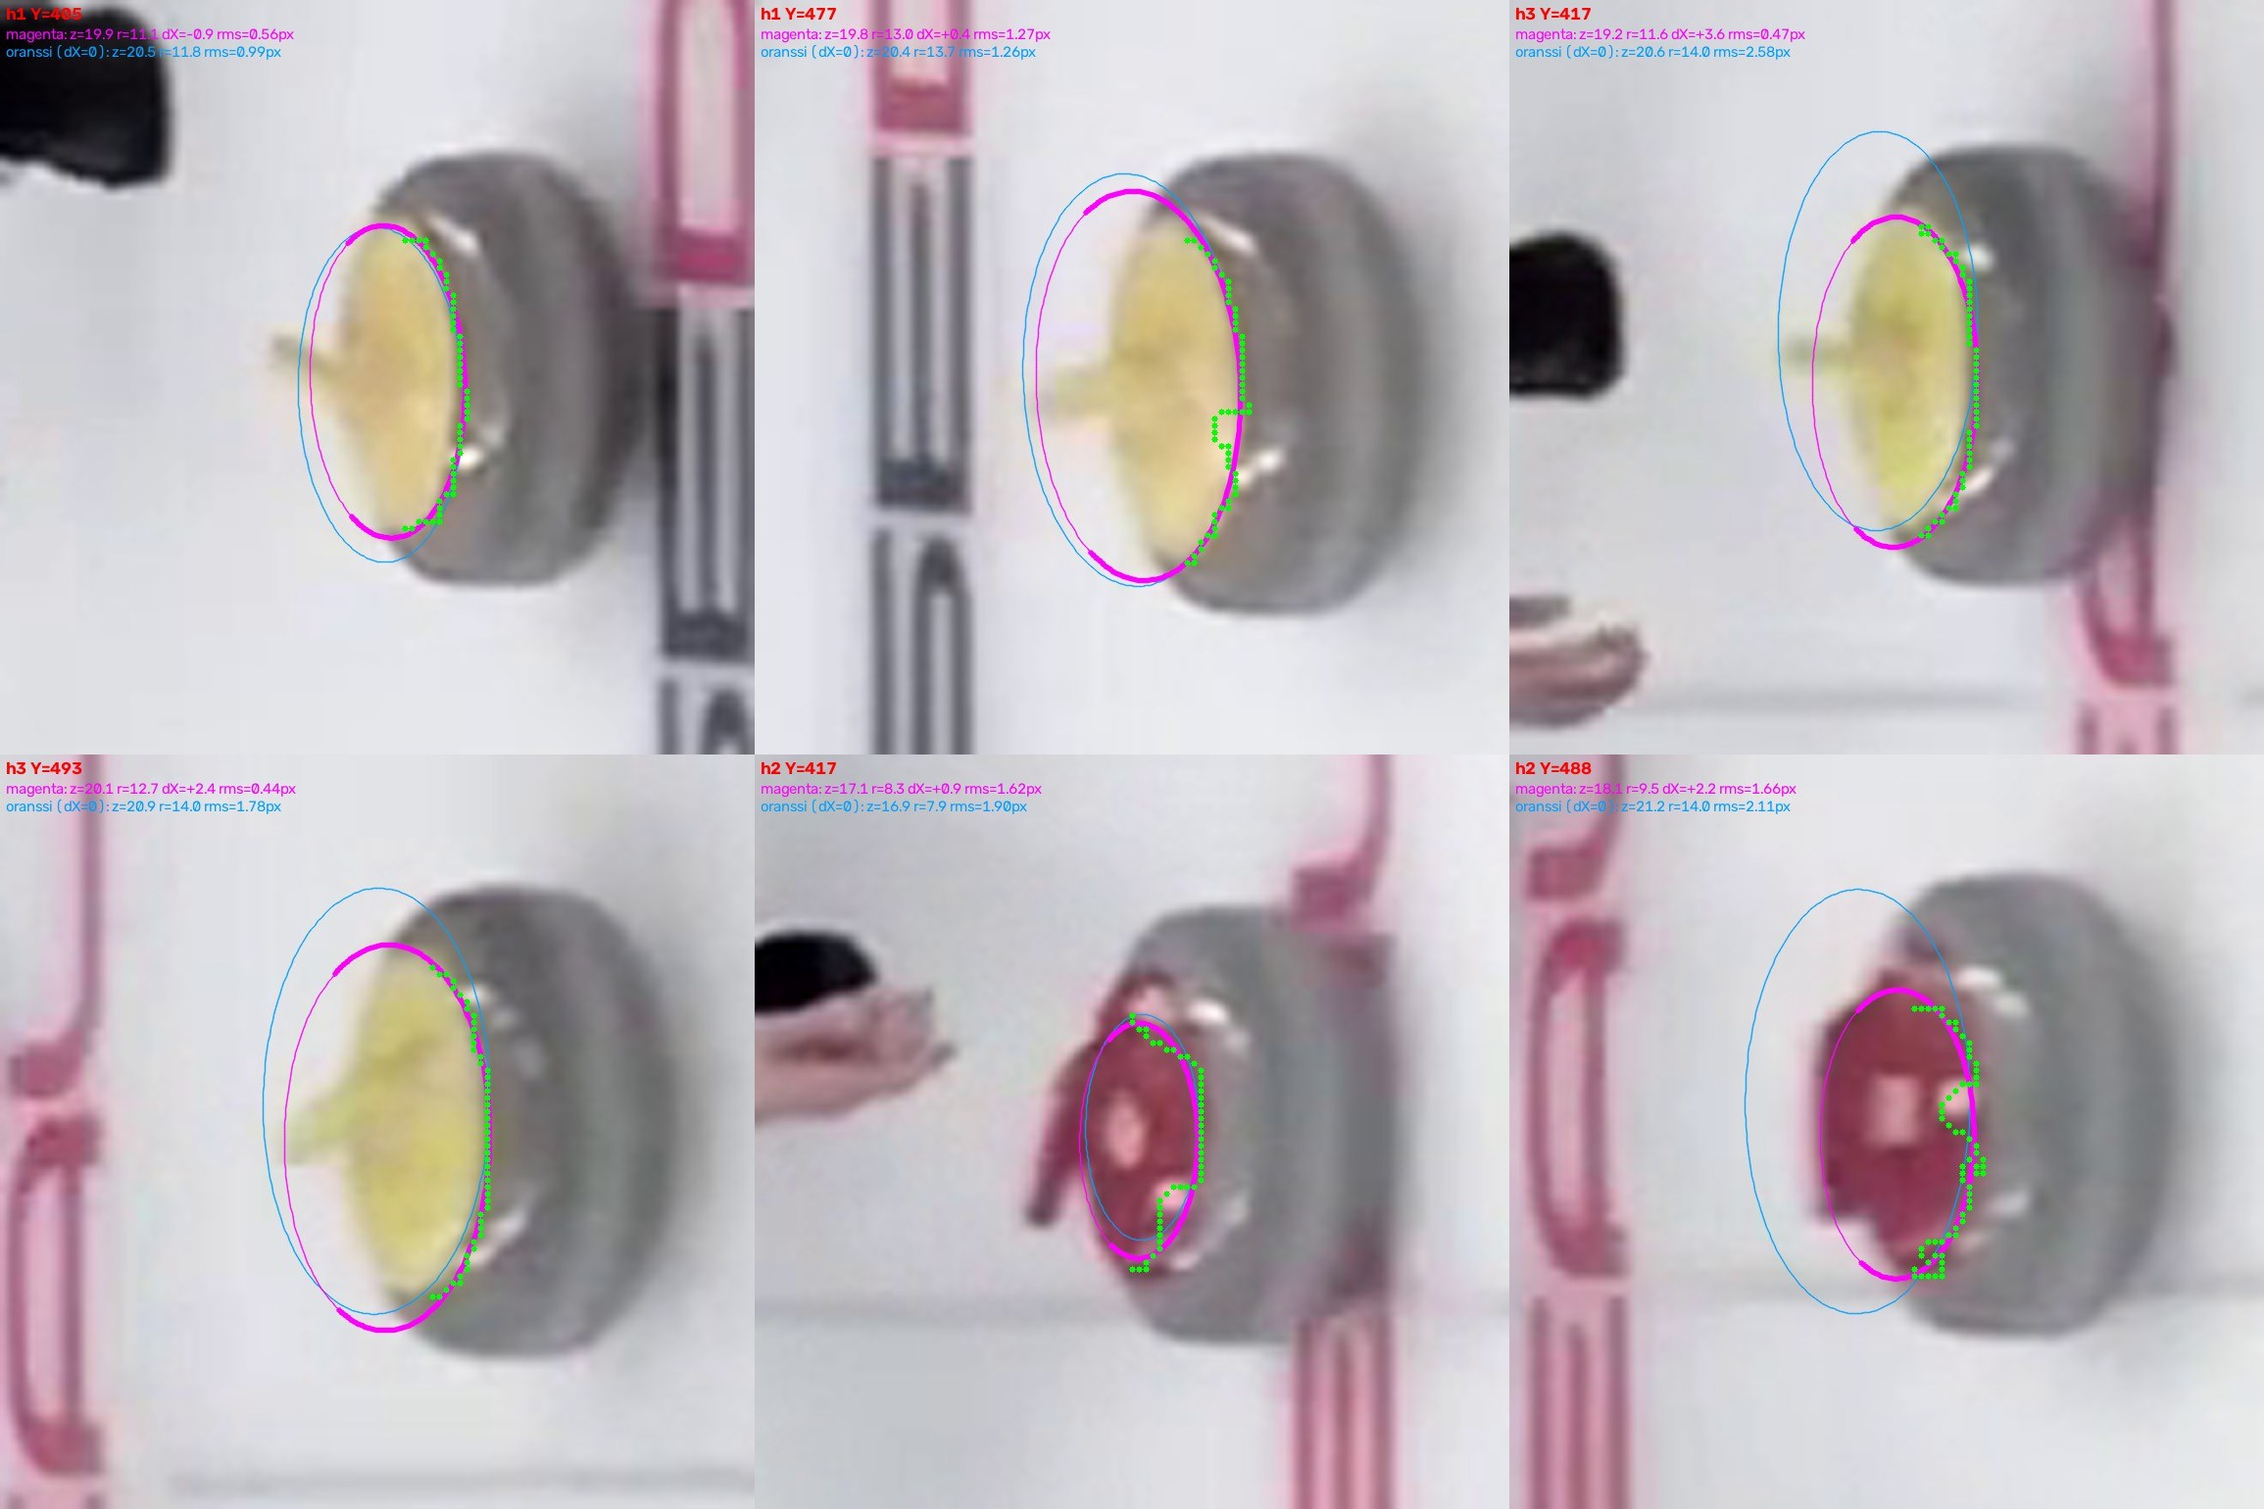
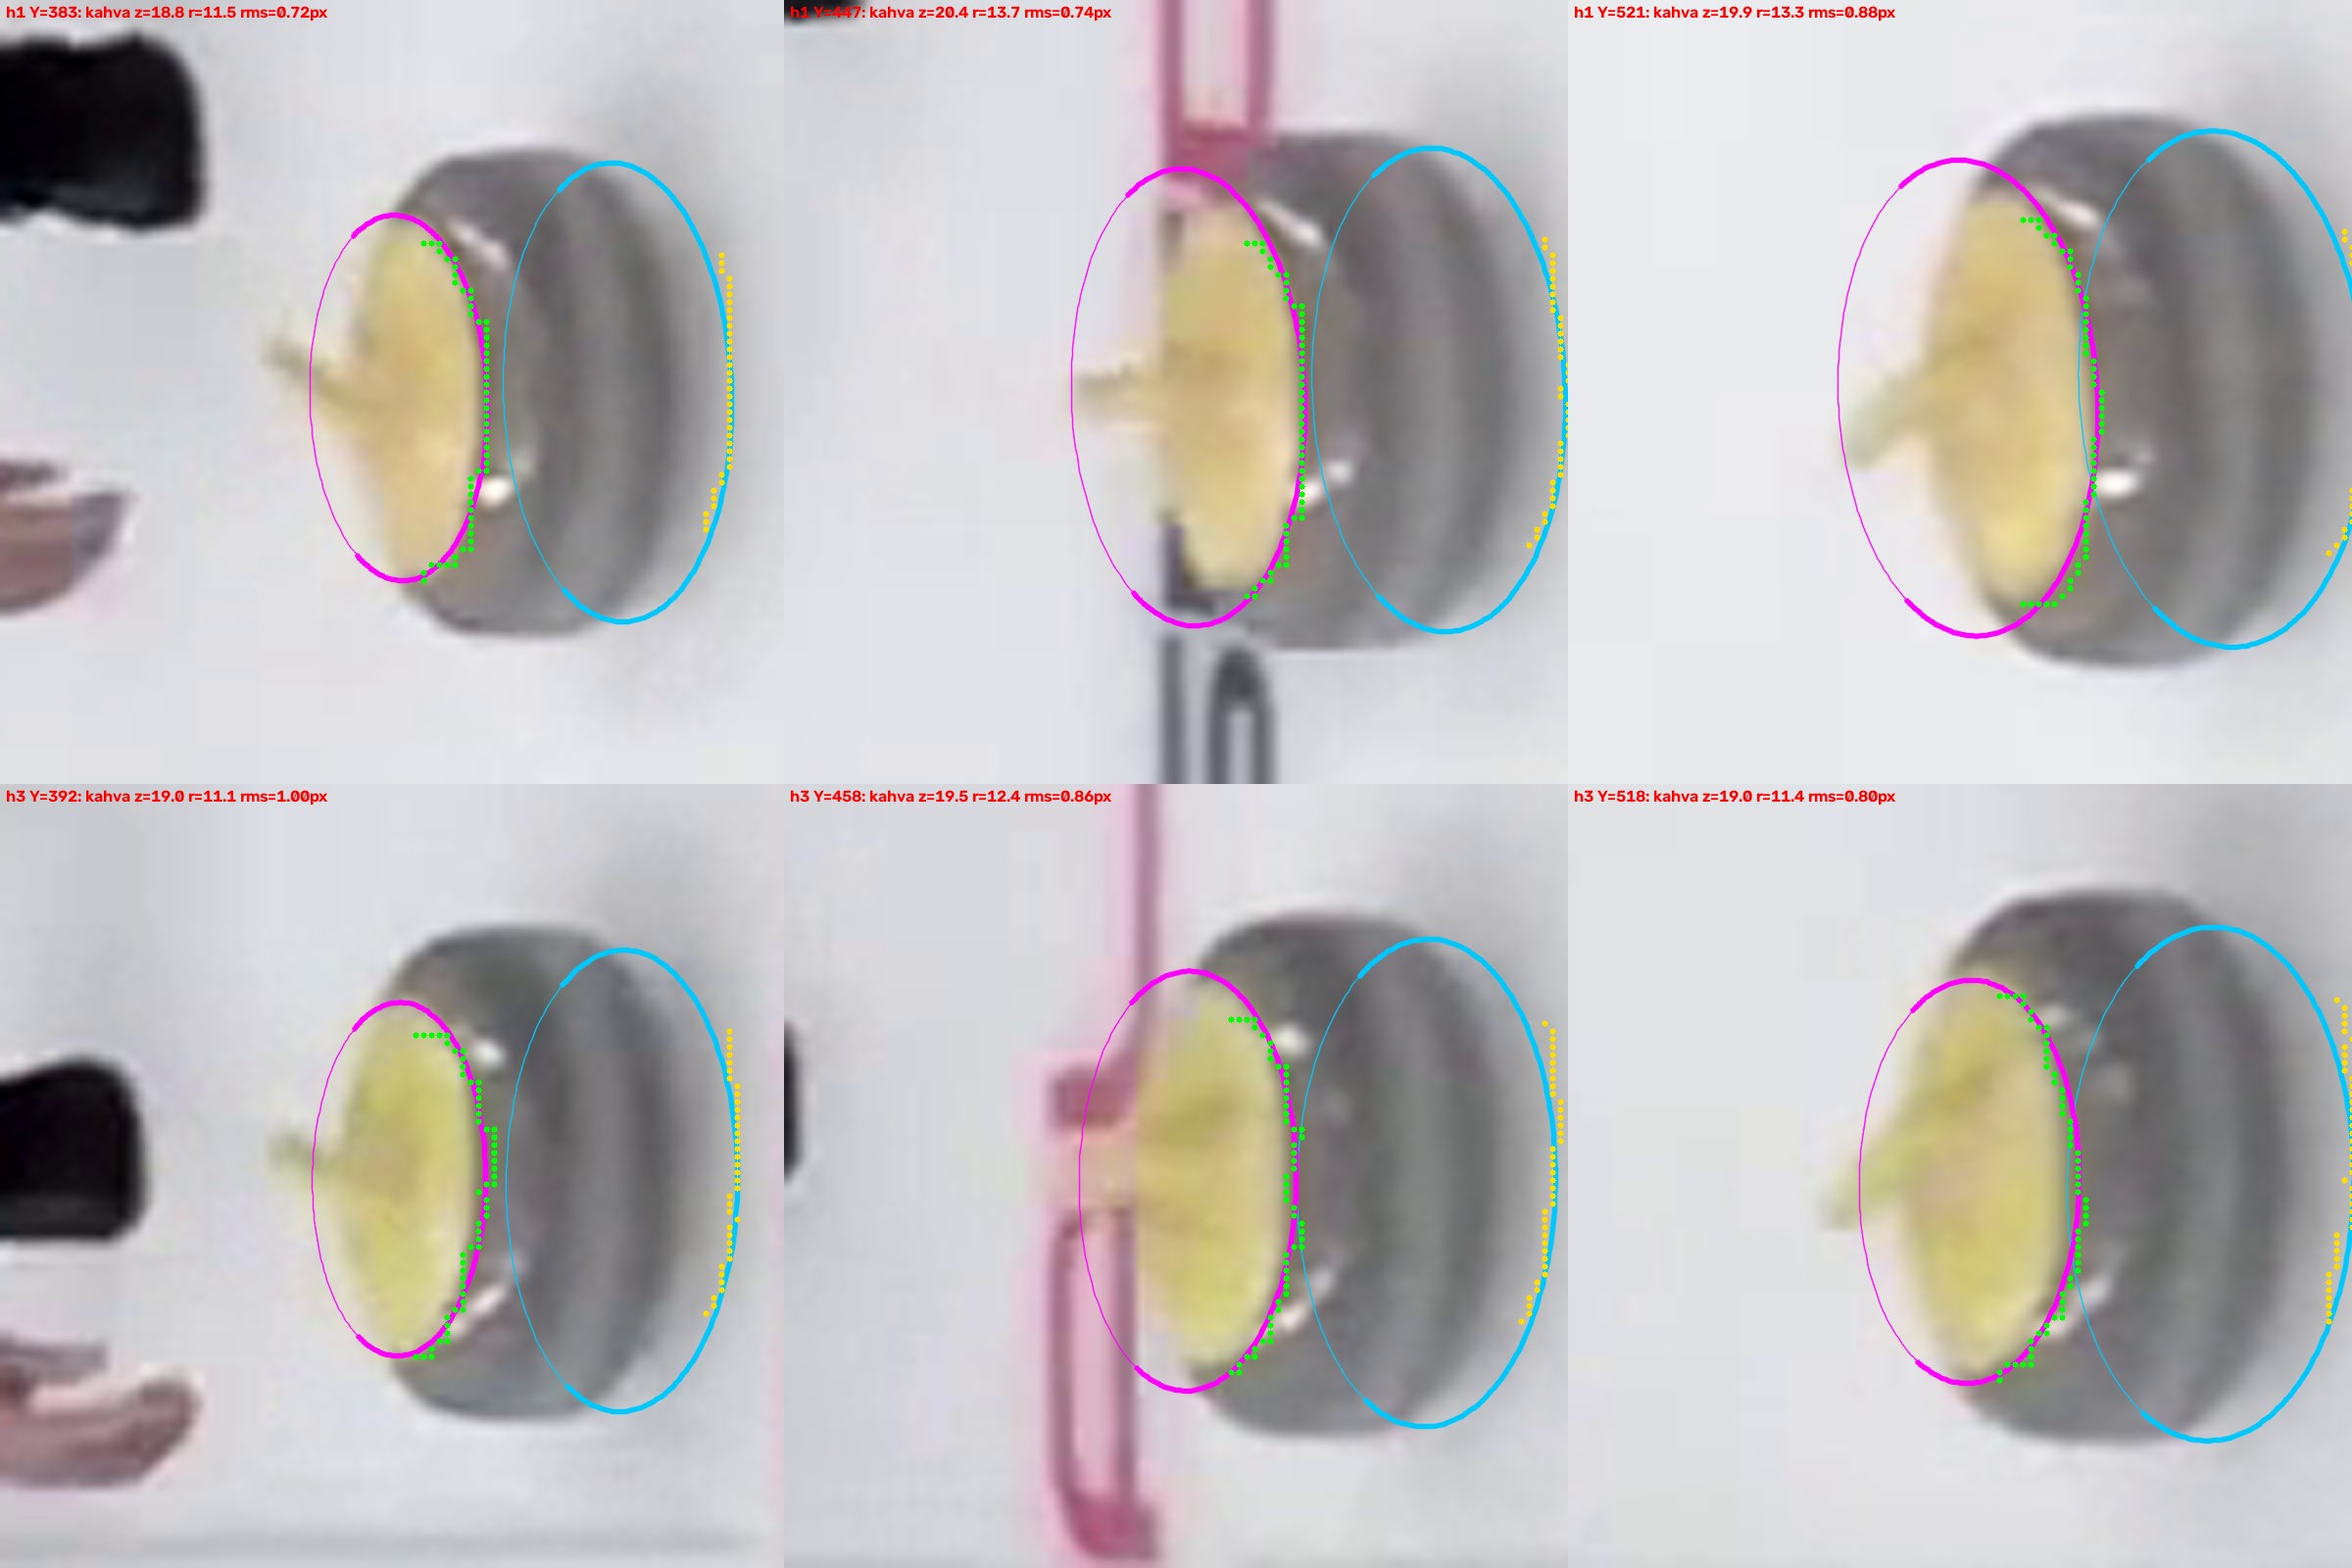
Netti_01_01: kahvan muovin tunnistus Lab-keltaisuudesta, etukaari kokonaan
Claude-Session: https://claude.ai/code/session_01TSepZD3gLVcyiH44oyUR5X

diff --git a/Netti_01_01/kivi_netti.py b/Netti_01_01/kivi_netti.py
@@ -324,7 +324,10 @@ PUNAINEN_SMIN, PUNAINEN_VMIN, PUNAINEN_VMAX = 100, 55, 168   # kahva V ~75-156 (
 def kahva_maski(frame, vari="keltainen"):
     hsv = cv2.cvtColor(frame, cv2.COLOR_BGR2HSV)
     if vari == "keltainen":
-        m = (hsv[..., 0] >= KAHVA_H[0]) & (hsv[..., 0] <= KAHVA_H[1]) & (hsv[..., 1] >= KAHVA_SMIN) & (hsv[..., 2] >= KAHVA_VMIN)
+        # Lab: muovi on keltainen myos vaalealla/varjoisella reunalla (b* >= 16) mutta ei punertava (iho a* > 10): tayttaa
+        # kaaren paat, joita HSV-kynnys (S >= 45, V >= 165) leikkasi pois
+        lab = cv2.cvtColor(frame, cv2.COLOR_BGR2LAB).astype(np.int16)
+        m = ((lab[..., 2] - 128) >= 16) & ((lab[..., 1] - 128) <= 10)
     else:
         m = ((hsv[..., 0] <= PUNAINEN_H[0]) | (hsv[..., 0] >= PUNAINEN_H[1])) & (hsv[..., 1] >= PUNAINEN_SMIN) & (hsv[..., 2] >= PUNAINEN_VMIN) & (hsv[..., 2] <= PUNAINEN_VMAX)
     return m.astype(np.uint8)

diff --git a/Netti_01_01/README_netti.md b/Netti_01_01/README_netti.md
@@ -141,3 +141,11 @@ pystyalue mukana (`kaaripisteet`). Tulokset (`tulokset/kahva_etureuna.jpg`; mage
   X +1,4...+1,8 cm (Y alle 0,1 cm). Punainen (heitto 2): z 18,0 cm, r 9,2 cm, kahvan RMS 1,8 px (maski epäpuhdas).
 * Kuvan kahvalevy on leveydeltaan ~37-46 px (~20-24 cm), eli levy on isompi kuin oletettu 9 cm sade. Ellipsin kuvasuhde täsmää
   vaakaympyrään, mutta etukaaren pullistuma on pieni (4-5 px) levyn leveyteen nähden, joten sovitus on herkkä r:n ja z:n yhdistelmälle.
+
+**Päivitys 2 (muovin tunnistus):** kahvan muovi tunnistetaan nyt Lab-värin keltaisuudesta (b* >= 16, a* <= 10) eikä HSV-kynnyksellä
+(S >= 45, V >= 165), joka leikkasi levyn vaaleat/varjoisat kärjet pois ja teki etukaaresta liian loivan. Iho (a* > 10) jää pois. Muovi on
+nuolenkärjen muotoinen: oikea (kameran puoleinen) reuna on sileä kaari, vasemmalla muovi kapenee varreksi. Etureuna = kaari ylimmästä
+kärjestä alimpaan kärkeen kameran puolella; sovitus: yhteissovitus (akseli X, Y sekä alareunan kaarelle että kahvan etureunalle; z, r vapaat).
+Tulos (heitot 1 ja 3, keltainen): kahvan taso z = 18,8-20,4 cm (mediaani ~19,4), r = 11-14 cm, RMS 0,7-1,0 px; r ja z korreloivat
+(suurempi r -> pienempi z), joten luku z = 19,4 cm edellyttää r = 11,5-12 cm. `tulokset/kahva_etureuna.jpg`: magenta = kahvan ympyrä (paksu osa =
+etukaari), vihreä = etureunan pisteet, syaani = alareunan ympyrä, keltainen = alakaaren pisteet.
